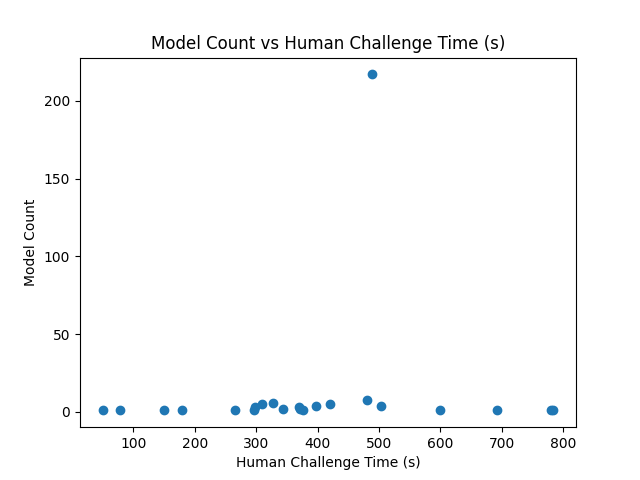
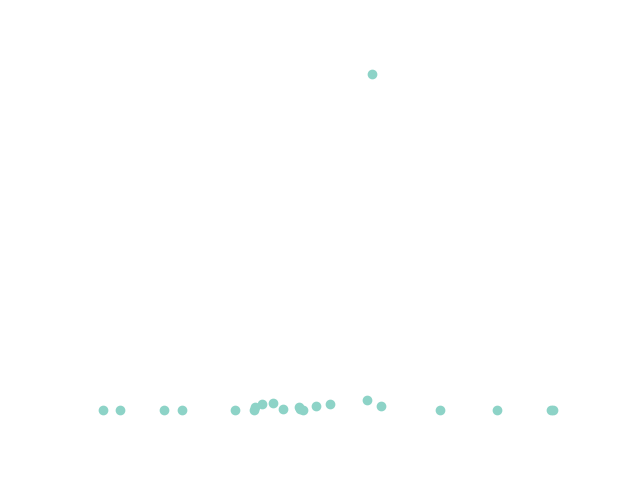
Made graphs dark + transparent

diff --git a/code/graph.py b/code/graph.py
@@ -3,13 +3,16 @@ import matplotlib.pyplot as plt
 import os
 import sys
 
-def make_scatter_plot(title, xdata, ydata, xlabel, ylabel): 
+
+def make_scatter_plot(title, xdata, ydata, xlabel, ylabel):
+    plt.style.use('dark_background')
     plt.figure()
     plt.title(title)
     plt.scatter(xdata, ydata)
     plt.xlabel(xlabel)
     plt.ylabel(ylabel)
-    plt.savefig(f'../results/graphs/{title}')
+    plt.savefig(f'../results/graphs/{title}', transparent=True)
+
 
 parser = ap.ArgumentParser(description='Graph data from CSV')
 parser.add_argument('-p', '--path', help='CSV file path', required=True)
@@ -20,7 +23,7 @@ parser.add_argument('-yl', '--ylabel', help='y label name', required=False)
 parser.add_argument('-t', '--title', help='title', required=False)
 args = parser.parse_args()
 
-if not os.path.exists(args.path): 
+if not os.path.exists(args.path):
     print(f'{args.path} does not exist')
     exit()
 
@@ -46,20 +49,20 @@ with open(args.path, 'r') as f:
     first_line = next(f).rstrip('\n').split(',')
     xindex = -1
     yindex = -1
-    
-    try: 
+
+    try:
         xindex = first_line.index(args.xcol)
-    except ValueError: 
+    except ValueError:
         print(f'{args.xcol} does not exist in {args.path}')
         exit()
-    
-    try: 
-        yindex = first_line.index(args.ycol)
-    except ValueError: 
-        print(f'{args.ycol} does not exist in {args.path}')
-        exit() 
 
-    for line in f: 
+    try:
+        yindex = first_line.index(args.ycol)
+    except ValueError:
+        print(f'{args.ycol} does not exist in {args.path}')
+        exit()
+
+    for line in f:
         lst = line.rstrip('\n').split(',')
         xdata.append(float(lst[xindex]))
         ydata.append(float(lst[yindex]))
